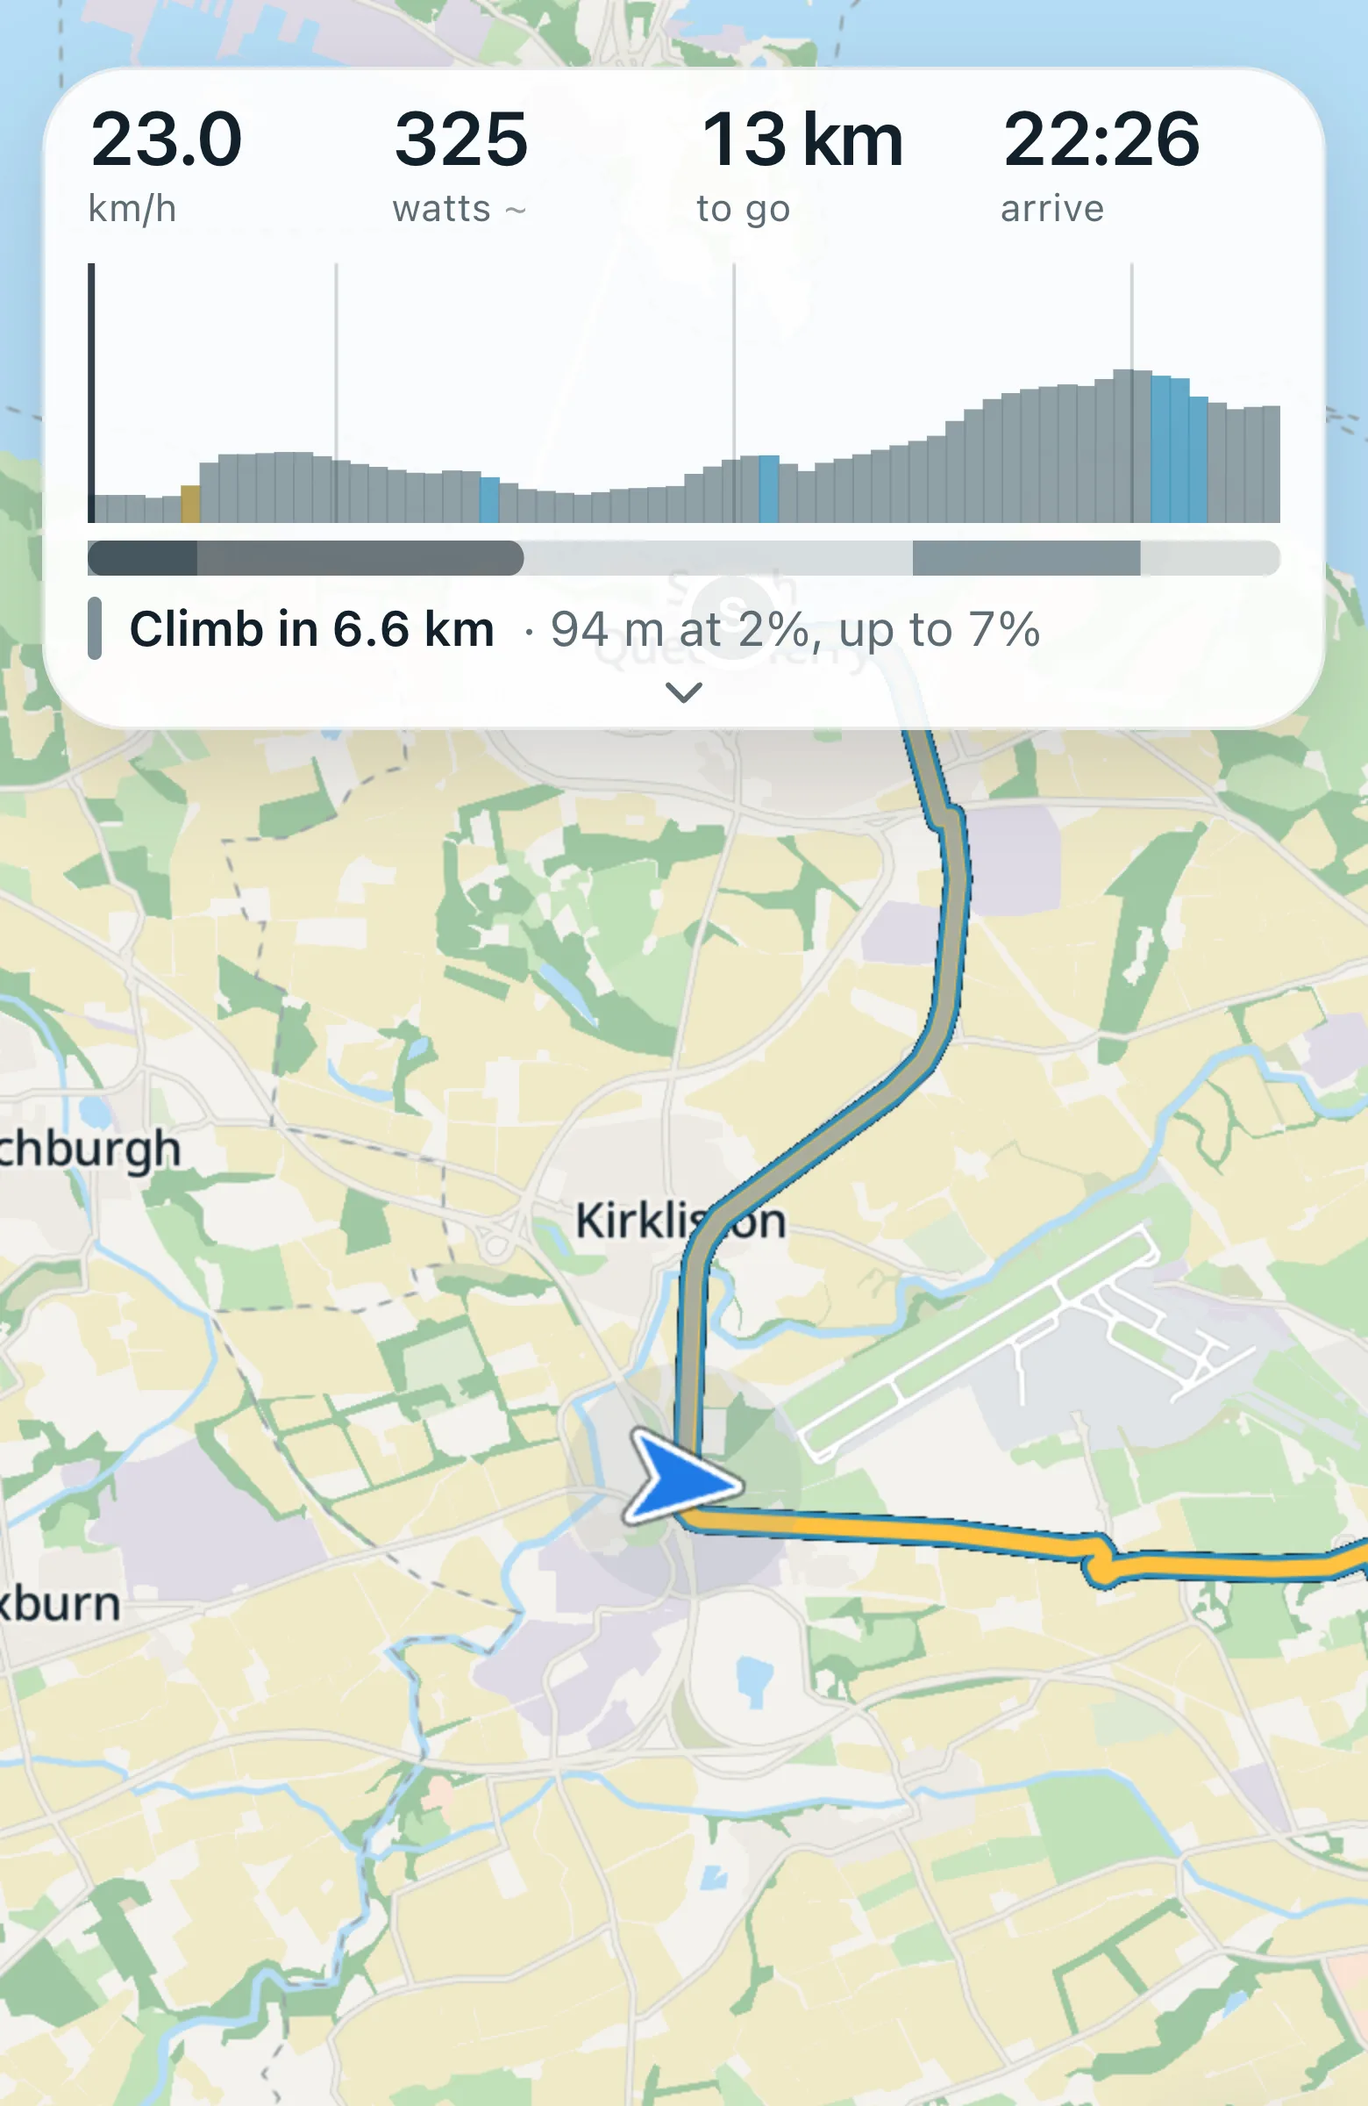
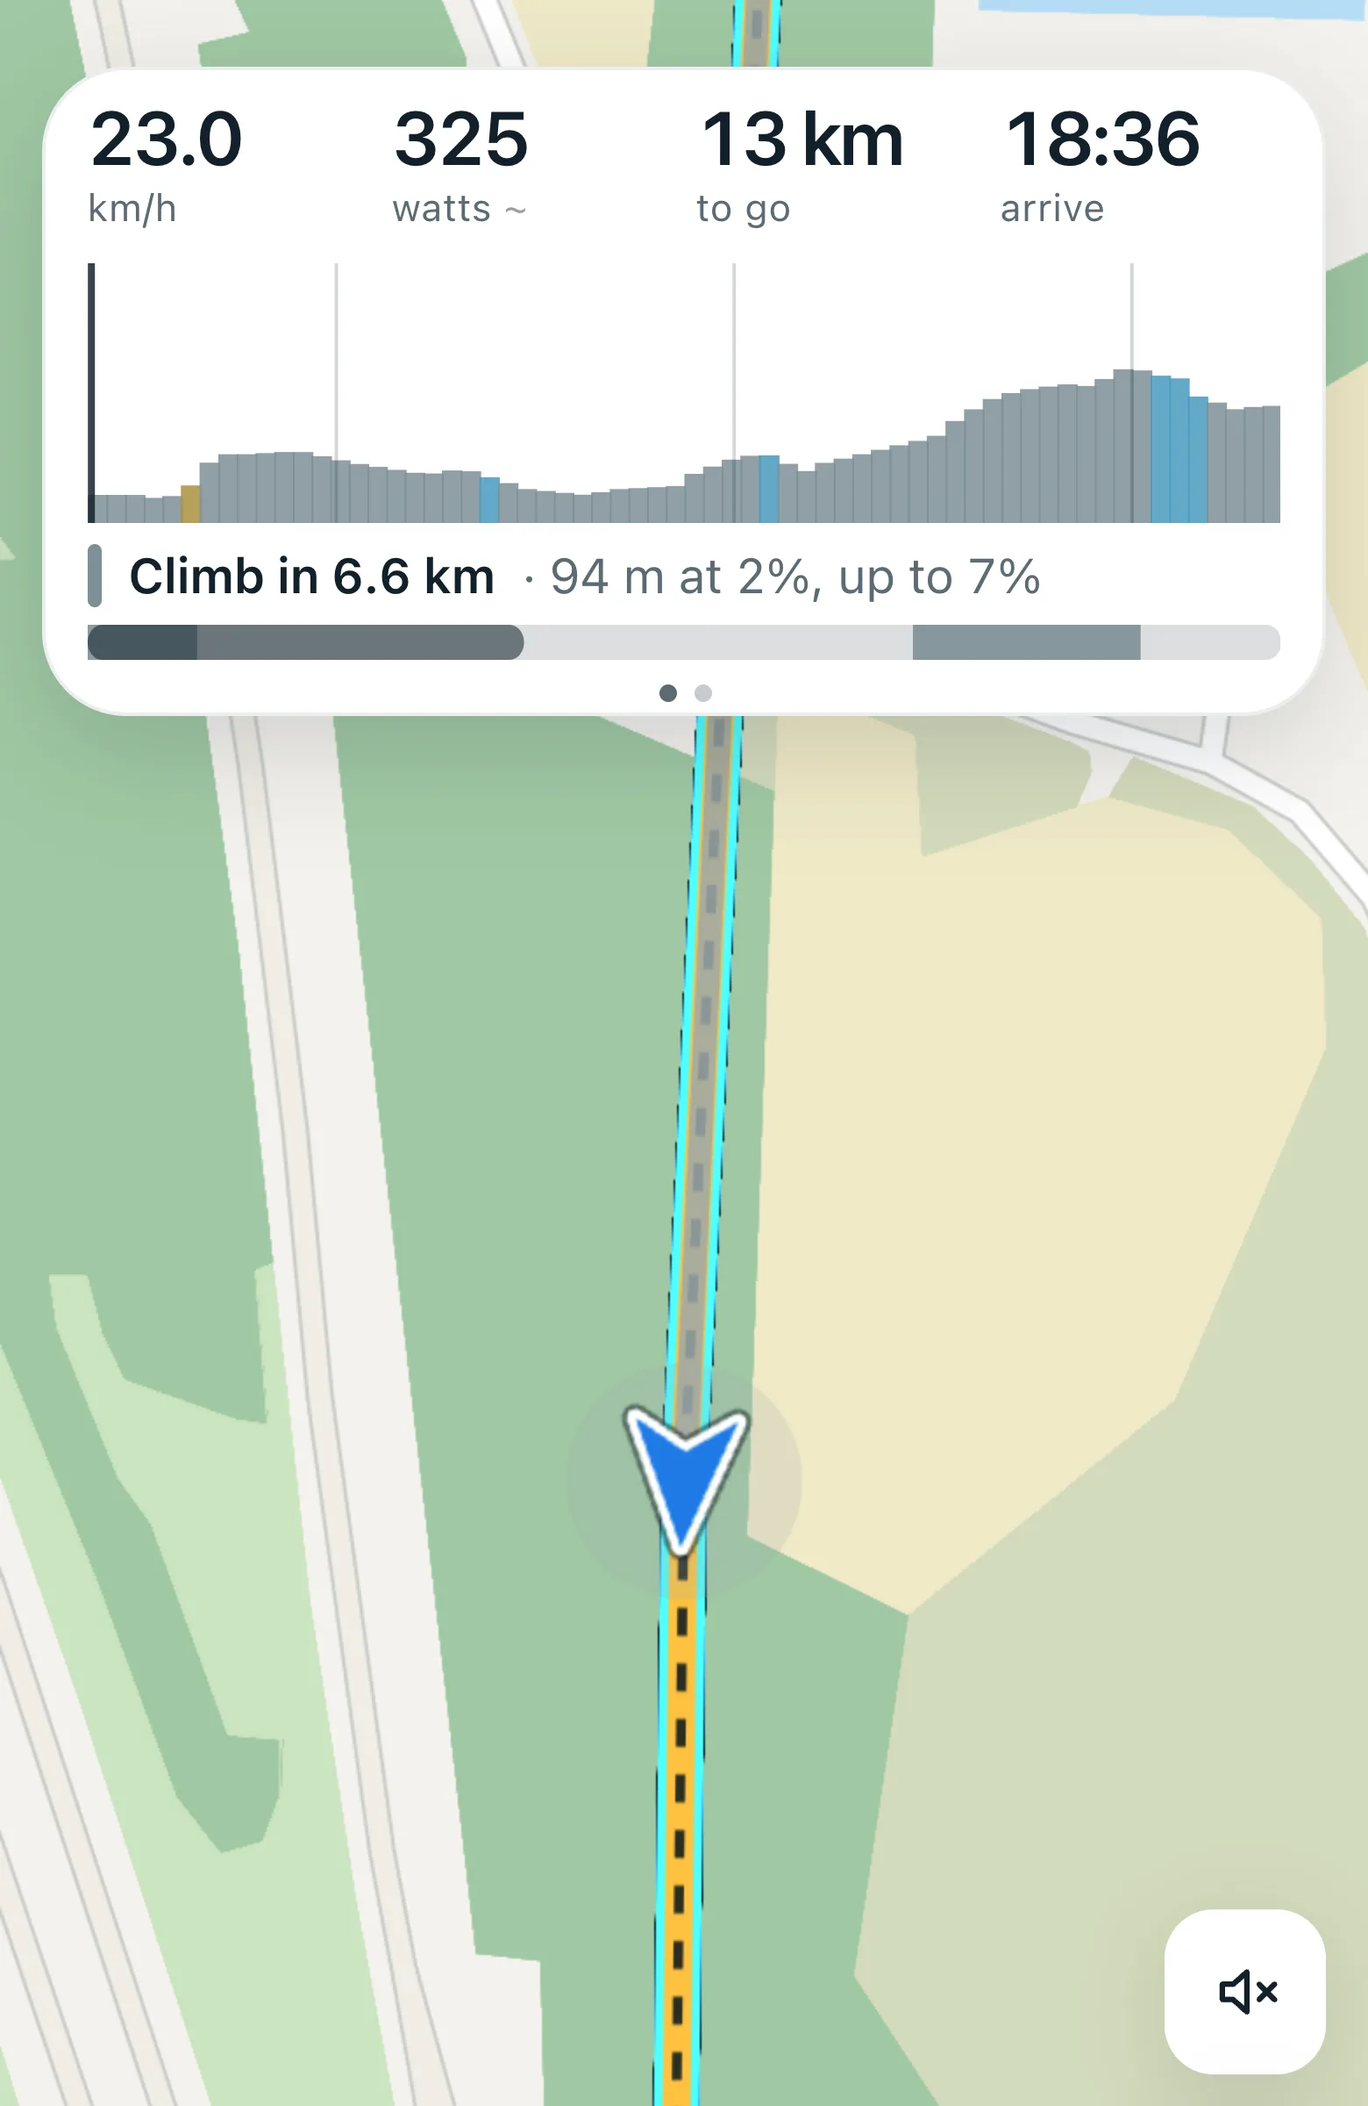
Ask on the first run which view a ride opens on
A seventh walkthrough card, "Two ways to ride", between the riding panel and
the location ask: the full map for the detail, glance for the battery, and
two chips that write RiderSetup.rideView. Shown again it reports the rider's
own choice and writes only if a chip is tapped, the rule the bike card keeps.
Its picture is clipped out of the running glance view on the approach to a
real left turn, as every other card's is.

Regenerating the pictures turned up two script faults, both fixed: the reset
that clears the plan also ran inside the iframe clearUndoStack makes as a ride
starts, so the ride deleted its own route and the riding cards were shot with
no fix; and the walked fix carried a constant 96° course, so once the GPS
course drove the arrow the rider pointed east down a road running south.

diff --git a/web/src/onboarding/Onboarding.tsx b/web/src/onboarding/Onboarding.tsx
@@ -1,9 +1,10 @@
 import { useCallback, useRef, useState } from 'react'
 import { BIKES, SLIDES, bikeById, markOnboarded, type BikeChoice } from './slides'
+import { RIDE_VIEWS, type RideView } from '../ride/rider'
 import { swipeOffsetPx, swipeRelease, swipeVerdict } from './swipe'
 
 /**
- * The first run: six cards, a pager, and one question that changes anything.
+ * The first run: seven cards, a pager, and two questions that change anything.
  *
  * ## Why it exists at all
  *
@@ -53,6 +54,7 @@ import { swipeOffsetPx, swipeRelease, swipeVerdict } from './swipe'
  */
 export default function Onboarding({
   bike: startOn,
+  rideView: viewStartsOn,
   again,
   onDone,
 }: {
@@ -64,16 +66,25 @@ export default function Onboarding({
    * rider's setup is not one of the four.
    */
   bike: string | null
+  /**
+   * Which riding view starts selected: the rider's own on a revisit, the map on the first run.
+   * Unlike the bike there is always an answer to report — the setting is one of two.
+   */
+  rideView: RideView
   /** Opened from Setup rather than shown on the first launch. */
   again?: boolean
   /**
    * Called once the walkthrough is finished or skipped, with the bike the rider settled on —
    * or `null` if they never touched the chips on a revisit, which means "change nothing".
+   * The riding view is the same: `null` unless a chip was tapped, so reading the cards again
+   * cannot quietly put a rider back on the map they had chosen to leave.
    */
-  onDone: (bike: BikeChoice | null) => void
+  onDone: (bike: BikeChoice | null, rideView: RideView | null) => void
 }) {
   const [index, setIndex] = useState(0)
   const [bike, setBike] = useState(startOn)
+  const [view, setView] = useState(viewStartsOn)
+  const [viewTapped, setViewTapped] = useState(false)
   const last = SLIDES.length - 1
   const slide = SLIDES[index]
   const swipe = useSwipe({ index, last, onIndex: setIndex })
@@ -92,9 +103,9 @@ export default function Onboarding({
           { enableHighAccuracy: false, timeout: 10_000 },
         )
       }
-      onDone(chosen)
+      onDone(chosen, viewTapped ? view : null)
     },
-    [again, bike, onDone],
+    [again, bike, view, viewTapped, onDone],
   )
 
   const next = () => (index === last ? finish(true) : setIndex(index + 1))
@@ -176,6 +187,31 @@ export default function Onboarding({
                       className="chip"
                       data-selected={bike === option.id ? 'yes' : 'no'}
                       onClick={() => setBike(option.id)}
+                    >
+                      {option.label}
+                    </button>
+                  ))}
+                </div>
+              )}
+
+              {card.views && (
+                <div
+                  className="onboarding-chips"
+                  role="radiogroup"
+                  aria-label="Which view a ride opens on"
+                >
+                  {RIDE_VIEWS.map((option) => (
+                    <button
+                      key={option.id}
+                      type="button"
+                      role="radio"
+                      aria-checked={view === option.id}
+                      className="chip"
+                      data-selected={view === option.id ? 'yes' : 'no'}
+                      onClick={() => {
+                        setView(option.id)
+                        setViewTapped(true)
+                      }}
                     >
                       {option.label}
                     </button>

diff --git a/web/src/onboarding/slides.ts b/web/src/onboarding/slides.ts
@@ -10,7 +10,7 @@ import type { ProfileId } from '../ride/profiles'
  */
 
 /**
- * The six pictures, by name.
+ * The seven pictures, by name.
  *
  * Each is `public/onboarding/<name>.webp`, and each is a rectangle clipped out of the running
  * app by `tools/onboarding-shots.mjs` — a real route over a real basemap, planned and ridden by
@@ -19,9 +19,9 @@ import type { ProfileId } from '../ride/profiles'
  * ride screen already knowing what they are looking at, and a picture of a screen that does not
  * exist teaches the opposite. Regenerate rather than retouch.
  */
-export type ShotName = 'plan' | 'regions' | 'routes' | 'compare' | 'ride' | 'follow'
+export type ShotName = 'plan' | 'regions' | 'routes' | 'compare' | 'ride' | 'glance' | 'follow'
 
-export const SHOTS: ShotName[] = ['plan', 'regions', 'routes', 'compare', 'ride', 'follow']
+export const SHOTS: ShotName[] = ['plan', 'regions', 'routes', 'compare', 'ride', 'glance', 'follow']
 
 export interface Slide {
   shot: ShotName
@@ -41,6 +41,8 @@ export interface Slide {
   body: string
   /** Shows the bike chips. Exactly one card does. */
   bikes?: true
+  /** Shows the two riding views to choose between. Exactly one card does. */
+  views?: true
   /** Shows the location reassurance, and turns the button into the permission prompt. */
   location?: true
 }
@@ -89,6 +91,16 @@ export const SLIDES: Slide[] = [
     body:
       'Speed, the next climb, how far to go and when you arrive — and a voice that tells ' +
       'you about the hill before you see it.',
+  },
+  {
+    shot: 'glance',
+    alt: 'The glance view: the next turn and its distance in large type, and the road ahead drawn as one line on a black screen.',
+    focus: 'top',
+    title: 'Two ways to ride',
+    // Three lines at 390 px, like the bike card's two: any longer and the chips under it are
+    // pushed off the bottom of the card on a phone this size.
+    body: 'Full map shows every street. Glance shows just the next turn, and saves battery. Which should a ride open on?',
+    views: true,
   },
   {
     shot: 'follow',

diff --git a/web/src/App.tsx b/web/src/App.tsx
@@ -3,6 +3,7 @@ import RideView from './ride/RideView'
 import SetupView from './setup/SetupView'
 import Onboarding from './onboarding/Onboarding'
 import { DEFAULT_BIKE, bikeFor, hasOnboarded, type BikeChoice } from './onboarding/slides'
+import type { RideView as RideViewKind } from './ride/rider'
 import { useMapLibre } from './ride/useMapLibre'
 import { useRider } from './ride/useRider'
 import { sharedEngine } from './engine/engineClient'
@@ -144,8 +145,9 @@ export default function App() {
    * tyres reset.
    */
   const finishOnboarding = useCallback(
-    (bike: BikeChoice | null) => {
+    (bike: BikeChoice | null, rideView: RideViewKind | null) => {
       if (bike) rider.update({ style: bike.profile, position: bike.position, tyres: bike.tyres })
+      if (rideView) rider.update({ rideView })
       setWalkthrough(null)
     },
     [rider],
@@ -182,6 +184,7 @@ export default function App() {
           // describes it. On the first run there is nothing to report and the default is a
           // better opening guess than an empty row.
           bike={walkthrough === 'again' ? (bikeFor(rider.setup)?.id ?? null) : DEFAULT_BIKE.id}
+          rideView={rider.setup.rideView}
           again={walkthrough === 'again'}
           onDone={finishOnboarding}
         />

diff --git a/web/src/onboarding/slides.test.ts b/web/src/onboarding/slides.test.ts
@@ -18,6 +18,11 @@ describe('the walkthrough', () => {
     expect(SLIDES.filter((s) => s.bikes)).toHaveLength(1)
   })
 
+  it('asks which view to ride in exactly once, and not on the card about the bike', () => {
+    expect(SLIDES.filter((s) => s.views)).toHaveLength(1)
+    expect(SLIDES.filter((s) => s.views && s.bikes)).toHaveLength(0)
+  })
+
   it('shows a different screen on every card', () => {
     expect(new Set(SLIDES.map((s) => s.shot)).size).toBe(SLIDES.length)
   })

diff --git a/CLAUDE.md b/CLAUDE.md
@@ -47,7 +47,7 @@ web/             Vite + React + TS PWA. Artifacts land in web/public/engine/ (ge
                  what the road is made of, and where to turn.
                  Stops along the way are `insertionIndex` and `plan.shaping`, both in the same
                  kernel. There is no via mode: a tap already knows where in the order it goes.
-  src/onboarding/ The six-card first run. Each card shows the screen it is about, clipped out
+  src/onboarding/ The seven-card first run. Each card shows the screen it is about, clipped out
                  of the running app by `tools/onboarding-shots.mjs`. Its bike question writes
                  to the rider, not to the plan. It swipes as well as pressing Next; `swipe.ts`
                  holds the decisions.
@@ -290,7 +290,7 @@ interface so the UI and Wasm engine port to a WKWebView unchanged if OPFS durabi
   Skipping counts as having seen it.
 - **The walkthrough is shown once by itself and reachable for ever from Setup**, as the third
   row — *How this app works*. It used to retire the moment it was finished, which is a strange
-  fate for the only six screens that explain the app, and the premise a rider forgets between
+  fate for the only seven screens that explain the app, and the premise a rider forgets between
   seasons (download the map before you leave) is on card two. Shown again it *reports* rather
   than *asks*, and all three differences guard the same thing: the bike chips start on
   `bikeFor(rider)` and on **nothing at all** when no chip describes the rider's setup;
@@ -303,7 +303,7 @@ interface so the UI and Wasm engine port to a WKWebView unchanged if OPFS durabi
   has to still be there to come back to.
 - **The onboarding pictures are clipped out of the running app, and are never drawn.**
   `web/tools/onboarding-shots.mjs` drives the built app in headless Chrome against a real
-  basemap and a real BRouter segment, plans a real route, rides it, and clips six rectangles at
+  basemap and a real BRouter segment, plans a real route, rides it, and clips seven rectangles at
   roughly life size into `web/public/onboarding/*.webp` — committed, for the same reason
   `public/engine/` is. They replaced pixel glyphs on the icon's own 20x14 grid, which cost
   nothing and said nothing: twenty cells cannot draw "three routes you compare", and two bikes
@@ -323,7 +323,7 @@ interface so the UI and Wasm engine port to a WKWebView unchanged if OPFS durabi
   a fraction of `--app-height` between two bounds rather than a fixed aspect ratio: a fixed one
   pushes the text off a short phone, and `flex: 1` would absorb the slack and float the text
   away from the top. `Slide.focus` says which part of a picture survives the crop.
-- **Two of the six shots are framed by measuring, not by a constant.** The app fits a route to
+- **Two of the seven shots are framed by measuring, not by a constant.** The app fits a route to
   a 390x844 screen and the card is nowhere near that shape, so at the app's own zoom the two
   pins — the literal subject of "tap your start, tap your finish" — fall outside the crop. The
   script reads the markers' rects, pulls the map back until they fit the band the card will
@@ -415,8 +415,8 @@ interface so the UI and Wasm engine port to a WKWebView unchanged if OPFS durabi
   and MapLibre fetches them separately; skipping this yields an offline map with no labels,
   which looks like a styling bug. They live in `web/public/{fonts,sprites}`, are **committed**
   rather than generated, and are refreshed with `npm run fetch-map-assets`. `globPatterns`
-  must keep `pbf` and `png` — and `webp`, which is the walkthrough's six pictures: it runs
-  before anything is downloaded, so a second launch in a tunnel must not be six broken images.
+  must keep `pbf` and `png` — and `webp`, which is the walkthrough's seven pictures: it runs
+  before anything is downloaded, so a second launch in a tunnel must not be seven broken images.
   Glyph URLs must be **absolute** — they are fetched from
   MapLibre's worker, where a relative URL resolves against `/assets/`.
 - **`zoom` must be the input to a top-level `interpolate` or `step`.** Nesting it inside a
@@ -942,6 +942,23 @@ interface so the UI and Wasm engine port to a WKWebView unchanged if OPFS durabi
   `workload.ts` counts frames, compass events and camera moves, and `tools/drive-ride-load.mjs`
   measures them — check it before and after anything that touches the riding map. Figures in
   `docs/phase-17-progress.md`.
+- **The glance view is the riding map taken away, and a hidden map costs nothing only if
+  nothing writes to it.** `GlanceView` draws the route ahead as one SVG polyline on true black
+  (`--glance-ground`, never `--slate-900`: an OLED pixel at black is off), heading-up from the
+  route's own last 10 m, redrawn per fix and never animated. The map stays mounted underneath
+  with `visibility: hidden` so the way back is instant, and every riding effect that writes to it
+  — marker, ridden line, camera — returns early on `glancing`; the compass stands down too.
+  `drive-ride-load.mjs` measures **0 map frames a minute** in it, and that zero is the claim:
+  a new riding effect that forgets the guard shows up there first. Which view a ride opens on is
+  `RiderSetup.rideView` (map by default), asked on onboarding card six and in *You and the
+  bike*; the button that flips views mid-ride is deliberately not saved. The glance tokens do
+  not invert between themes, like `--mode`. The first camera move after leaving it is a jump,
+  not an ease, because the rider may be kilometres from where the map was left.
+- **A driver's reset script runs in every frame, including the one a ride creates.**
+  `clearUndoStack` inserts and removes a same-origin iframe as a ride starts, and a
+  `Page.addScriptToEvaluateOnNewDocument` reset that removes the plan ran inside it — so the
+  ride deleted its own route the moment it began and `onboarding-shots.mjs` photographed a rider
+  with no fix. Guard resets with `window === window.top`.
 - **`DeviceOrientationEvent.requestPermission()` only resolves from a user gesture on iOS**, so
   the compass cannot be asked for on mount. `useHeading.request()` is called from the course-up
   button and from Start, both of which are taps. The GPS course is preferred while moving and is `null`

diff --git a/docs/phase-17-progress.md b/docs/phase-17-progress.md
@@ -152,3 +152,37 @@ from the compass at all.
   is now what says "live". That is a design call, and it can be reverted on its own.
 - With course-up on and the rider standing still, the map only turns on the next fix. If iOS sends
   fixes slowly to a stationary phone, turning the bike at the lights will take a moment to show.
+
+## 6 · The glance view
+
+A second riding view, after the Beeline Velo: the route ahead as one line on a true-black screen,
+the next turn and its distance in large type, and nothing else but speed, distance to go and
+arrival in grey along the bottom. Between turns everything is dimmed; it lights 30 s before a turn
+(twice the speech's 15 s lead, floored at 120 m), and off route is the only state with a colour.
+The direction is the route's own over the last 10 m, never the compass — 25 m was tried first and
+lagged visibly on a twisting street.
+
+The map is kept mounted behind it and hidden, so returning is instant, rather than unmounted.
+That was the open question, and it was settled by measuring rather than arguing: with every
+riding map effect standing down while the glance view is up, the hidden map draws nothing.
+
+Same driver, same simulated ride, 30 s per scenario:
+
+| scenario | frames | orientation | heading | fixes | renders | camera | main thread s/min |
+|---|---|---|---|---|---|---|---|
+| north-up, standing still, no compass | 60 | 0 | 0 | 60 | 120 | 0 | 0.69 |
+| north-up, GPS only | 282 | 0 | 0 | 60 | 120 | 4 | 1.02 |
+| course-up, GPS + jittery compass | 422 | 3750 | 12 | 60 | 132 | 10 | 1.27 |
+| glance view, GPS + jittery compass | 0 | 0 | 0 | 60 | 120 | 0 | 0.44 |
+| glance view, stopped, jittery compass | 0 | 0 | 0 | 60 | 120 | 0 | 0.38 |
+
+The compass reads 0 in the glance view because it is switched off there: the view takes its
+direction from the route, so 3,750 events a minute had no reader. What the table cannot show is
+the screen, which is the larger half of the remaining drain and the half the glance view was
+designed for — almost every pixel black, and the rest dimmed for most of a ride. Only a phone can
+measure that.
+
+Still open for it: ending a ride needs the map view, where the hold-to-end button lives, and the
+voice toggle is there too. Both are one tap away and were left there to keep the glance view to
+one control.
+
